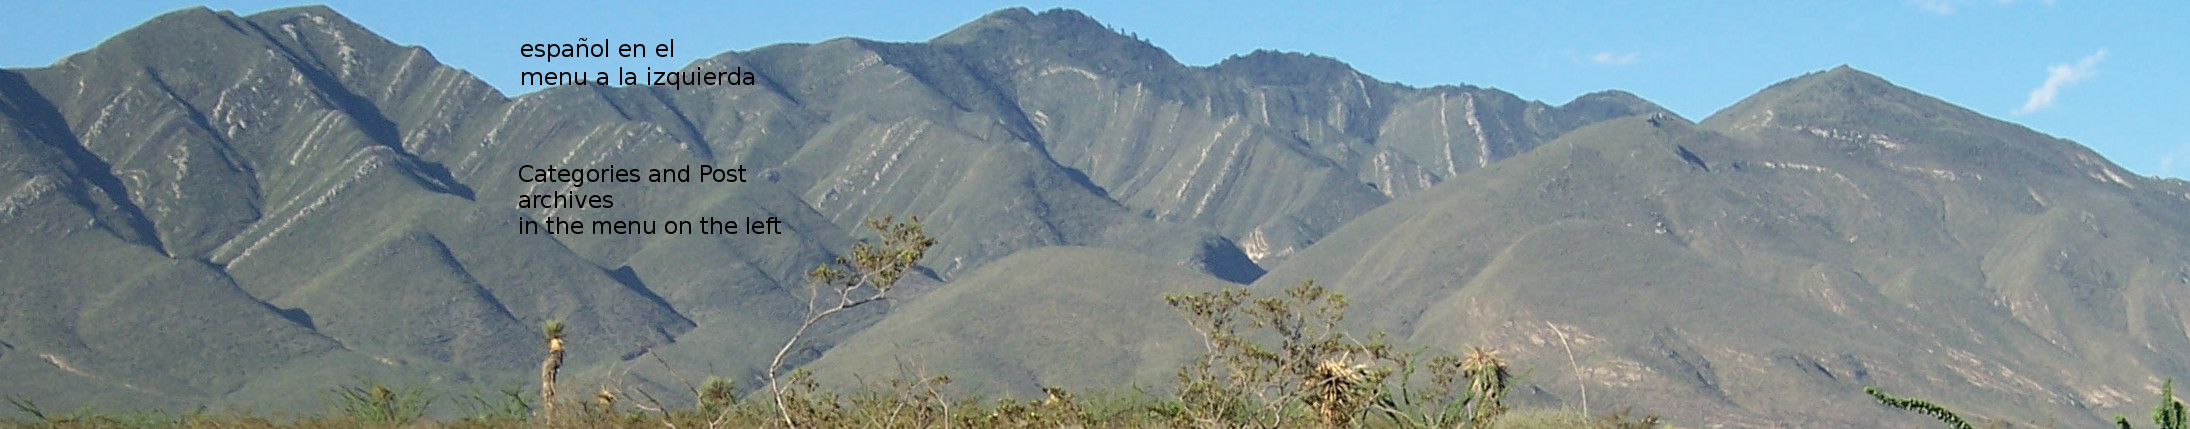
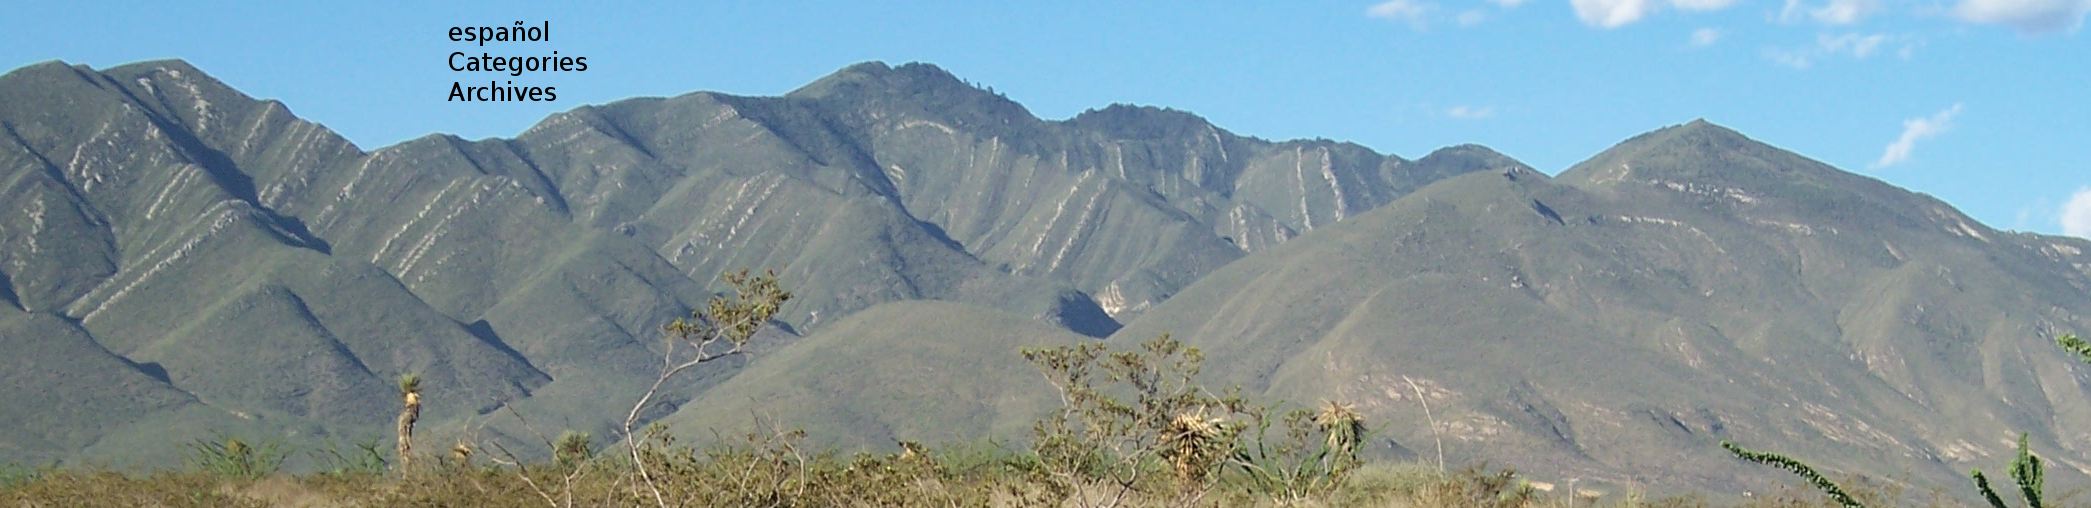
modified:   images/abstract-1.jpg 	modified:   index.html

diff --git a/index.html b/index.html
@@ -6,8 +6,8 @@ tags: [Jekyll, theme, themes, responsive, blog, modern]
 comments: false
 image:
   feature: abstract-1.jpg
-  credit: dargadgetz
-  creditlink: http://www.dargadgetz.com/ios-7-abstract-wallpaper-pack-for-iphone-5-and-ipod-touch-retina/
+  credit: Vanni Verenice
+  #creditlink: http://www.dargadgetz.com/ios-7-abstract-wallpaper-pack-for-iphone-5-and-ipod-touch-retina/
 ---
 
 {% for post in paginator.posts %}
